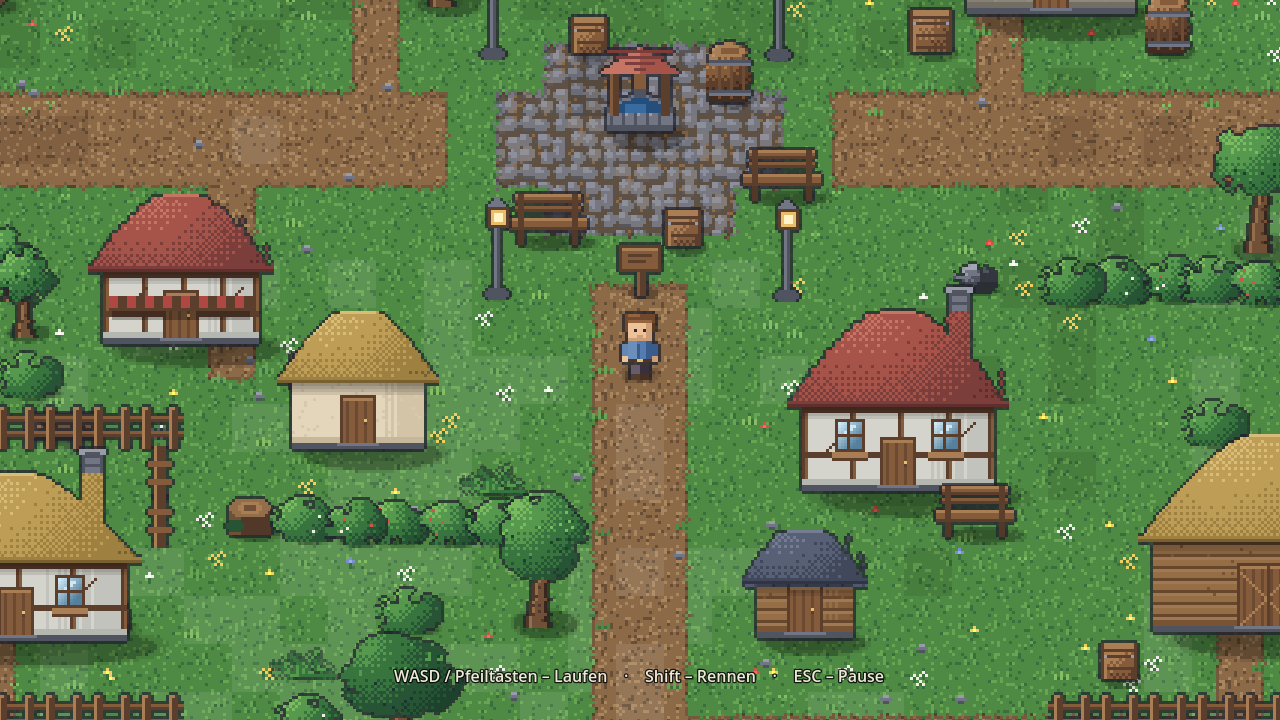
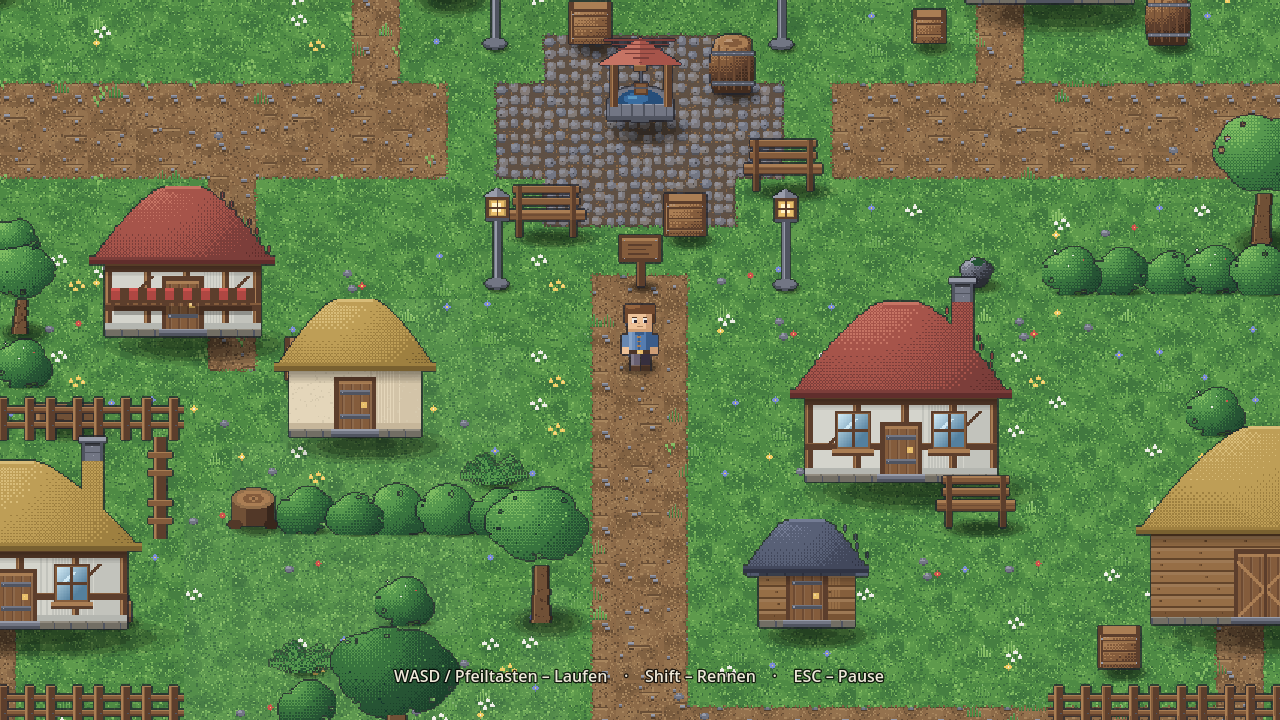
Feinschliff, Credits und Vorher/Nachher-Vergleich
- Farne waren bei 32 Pixeln praktisch unsichtbar: Wedel mit zweifarbigem
  Mittelstiel und paarweisen Fiederblaettchen
- Fichten wirkten als schmale Dreiecke: breitere Etagen mit zweiter,
  versetzter Lage
- Birke: Krone tiefer angesetzt, damit weniger heller Stamm frei steht
- Bodenschatten kraeftiger, die Objekte standen zu sehr ueber dem Boden

CREDITS.md (Auftrag §19/§20): Das Projekt enthaelt keine fremden
Asset-Dateien. Alle Grafiken und Klaenge werden zur Laufzeit berechnet.
Godot selbst (MIT) und die von der Engine gestellte Schrift sind als
einzige fremde Bestandteile dokumentiert. Die Vorbilder aus dem Auftrag
sind als reine Gestaltungsorientierung benannt, ohne uebernommene Inhalte.

Diese Aussage ist nicht nur behauptet: Der Selbsttest durchsucht res://
nach Bild-, Ton- und Schriftdateien und schlaegt fehl, sobald eine
auftaucht. 36 Pruefungen gruen.

README: eindeutige Startanleitung (Auftrag §24) und Vorher/Nachher-Tabelle
mit den Bildschirmfotos beider Aufloesungsstufen (Auftrag §22).

Claude-Session: https://claude.ai/code/session_01HgYAB6E32DDv1UqE7nxM7u

diff --git a/README.md b/README.md
@@ -5,11 +5,25 @@ Du läufst als Wanderer durch eine überschaubare Insel: Dorf, Wiese, Wald, Fels
 
 ![Das Dorf](docs/bilder/dorf.png)
 
-## Starten
+## So wird das Spiel gestartet
 
-1. [Godot 4.3+](https://godotengine.org/download) herunterladen (keine Installation nötig)
-2. Godot öffnen → **Importieren** → diesen Ordner (`project.godot`) auswählen
+1. [Godot 4.3+](https://godotengine.org/download) herunterladen — eine einzelne
+   ausführbare Datei, keine Installation nötig
+2. Godot öffnen → **Importieren** → diesen Ordner wählen (die Datei `project.godot`)
 3. **F5** drücken
+
+Es startet die Szene `scenes/main.tscn`. Danach erscheint das Hauptmenü,
+**SPIELEN** lädt die Welt (rund 1,5 Sekunden), und die Figur steht am Dorfplatz.
+
+Ohne Editor, direkt von der Kommandozeile:
+
+```bash
+godot --path .          # Spiel starten
+```
+
+Alle Grafiken und Klänge entstehen beim Start im Spiel selbst — es müssen
+keine Assets heruntergeladen oder importiert werden. Die Lizenzlage ist in
+[`CREDITS.md`](CREDITS.md) dokumentiert.
 
 ## Steuerung
 
@@ -36,6 +50,11 @@ Laternen, Holzstapel, Blumenkästen, Fässer, Kisten, Zäune und Vorgärten.
 Jungbaum, große und kleine Fichte) plus Büsche, Farne, Baumstümpfe und Totholz. Die Verteilung
 folgt Dichtefeldern statt gleichmäßigem Würfeln: es gibt Gruppen, dichte Bestände, Lichtungen und
 ausgedünnte Waldränder.
+
+**Auflösung** — 32 × 32 Pixel je Kachel bei Kamerazoom 1,5. Gegenüber der
+ersten Fassung (16 px bei Zoom 3) ist das Sichtfeld unverändert, jede Kachel
+hat aber die vierfache Pixelfläche. Alle Grafiken wurden dafür neu gezeichnet,
+nicht hochskaliert.
 
 **Boden** — Ein echtes Kachelraster aus neun `TileMapLayer`. Gras füllt die Karte, darüber liegen
 Wiese, Waldboden, Fels, Sand, Wasser, Tiefwasser, Weg und Pflaster. Die Schichten blenden sich per
@@ -96,7 +115,7 @@ src/gfx/actor_art.gd       Spielerfigur (Idle + Laufzyklus, 3 Richtungen)
 
 src/world/layout.gd        Von Hand gesetzte Weltstruktur (Dorf, Wege, Zäune, Hecken)
 src/world/map_data.gd      Kartendaten: Bodentypen, Inselform, Wegenetz, Begehbarkeit
-src/world/ground_tileset.gd TileSet mit benannten Terrains, bemalt die Kachelschichten
+src/world/ground_tileset.gd TileSet mit Terrains und Dekorationskacheln, bemalt die Schichten
 src/world/world_builder.gd Boden backen, Requisiten verteilen, Kollision bauen
 src/world/water_fx.gd      Glitzern und Uferschaum (nur im Sichtbereich)
 src/world/world.gd         Setzt die Spielwelt zusammen
@@ -129,8 +148,10 @@ godot --headless --path . --import      # nur beim allerersten Mal nötig
 godot --headless --path . -- --selftest
 ```
 
-Der Exit-Code ist 0, wenn alles in Ordnung ist (aktuell 35 Prüfungen; Weltaufbau ~790 ms,
-616 Objekte, 572 Kollisionsformen, 38 Zeichenaufrufe). Mit einer echten Anzeige
+Der Exit-Code ist 0, wenn alles in Ordnung ist (aktuell 36 Prüfungen; Weltaufbau ~1,5 s,
+616 Objekte, 572 Kollisionsformen, 45 Zeichenaufrufe). Eine der Prüfungen durchsucht das
+Projekt nach fremden Asset-Dateien und schlägt fehl, sobald eine auftaucht — siehe
+[`CREDITS.md`](CREDITS.md). Mit einer echten Anzeige
 lassen sich zusätzlich Screenshots und ein Kontaktbogen aller erzeugten Grafiken ablegen:
 
 ```bash
@@ -138,6 +159,16 @@ godot --path . -- --selftest --shots=/tmp/shots
 ```
 
 ![Alle Requisiten](docs/bilder/requisiten.png)
+
+## Vorher / Nachher
+
+Links das 16-px-Raster der ersten Fassung, rechts das heutige 32-px-Raster.
+
+| vorher | nachher |
+|---|---|
+| ![Dorf vorher](docs/bilder/vorher_dorf.png) | ![Dorf nachher](docs/bilder/dorf.png) |
+| ![Wald vorher](docs/bilder/vorher_wald.png) | ![Wald nachher](docs/bilder/wald.png) |
+| ![Strand vorher](docs/bilder/vorher_strand.png) | ![Strand nachher](docs/bilder/strand.png) |
 
 ## Nächste Schritte
 

diff --git a/CREDITS.md b/CREDITS.md
@@ -1,0 +1,60 @@
+# Credits und Nutzungsrechte
+
+**Kurzfassung: Dieses Projekt enthält keine fremden Asset-Dateien.**
+Sämtliche Grafiken und Klänge werden zur Laufzeit im Spiel selbst berechnet.
+Es gibt im Repository keine `.png`, `.wav`, `.ogg` oder `.ttf` als Spielinhalt.
+
+## Grafik
+
+| Was | Herkunft | Autor | Lizenz |
+|---|---|---|---|
+| Bodenkacheln, Übergangskacheln, Dekoration | in diesem Projekt erzeugt (`src/gfx/tile_art.gd`, `src/gfx/terrain_atlas.gd`) | Projekt | frei verwendbar |
+| Bäume, Felsen, Gebäude, Dorfinventar | in diesem Projekt erzeugt (`src/gfx/prop_art.gd`) | Projekt | frei verwendbar |
+| Spielerfigur und Animationen | in diesem Projekt erzeugt (`src/gfx/actor_art.gd`) | Projekt | frei verwendbar |
+| Menü-Hintergrund, Rahmen, Wolken | in diesem Projekt erzeugt (`src/ui/menu_art.gd`) | Projekt | frei verwendbar |
+
+Jede dieser Grafiken entsteht aus Rechteck-, Ellipsen- und Dreiecksoperationen in
+`src/gfx/pixel.gd` und aus der Farbpalette in `src/core/palette.gd`. Es wurde
+nichts kopiert, nachgezeichnet oder aus fremden Bilddateien abgeleitet.
+
+## Audio
+
+| Was | Herkunft | Autor | Lizenz |
+|---|---|---|---|
+| Menü- und Weltmusik | in diesem Projekt berechnet (`src/audio/audio.gd`) | Projekt | frei verwendbar |
+| Schritte, Menüklänge | in diesem Projekt berechnet (`src/audio/audio.gd`) | Projekt | frei verwendbar |
+
+Die Klänge werden als Sinus-, Rechteck- und Rauschsignale in eine
+`AudioStreamWAV` geschrieben. Es wurden keine Aufnahmen und keine Samples
+verwendet.
+
+## Fremde Bestandteile
+
+| Was | Autor | Lizenz | Anmerkung |
+|---|---|---|---|
+| Godot Engine 4.3 | Godot Engine contributors | MIT | Laufzeitumgebung, nicht Teil dieses Repositories |
+| Standardschriftart der Oberfläche | Teil der Godot-Distribution | siehe Godot-Lizenzdatei | wird von der Engine gestellt, nicht von diesem Projekt mitgeliefert |
+
+Das Projekt liefert keine eigene Schriftdatei aus. Die Menütexte werden mit der
+Schrift gezeichnet, die Godot selbst mitbringt.
+
+## Vorbilder
+
+Als gestalterische Orientierung dienten Top-Down-Spiele wie Stardew Valley,
+Moonlighter, Kynseed und A Short Hike. **Aus keinem dieser Spiele wurden
+Grafiken, Farbwerte, Sprites oder sonstige Inhalte übernommen.** Die
+Orientierung betrifft ausschließlich allgemeine Gestaltungsprinzipien —
+Perspektive, Detailgrad, Lichtführung — die selbst nicht schutzfähig sind.
+
+## Prüfung
+
+Der Selbsttest meldet die Zahl der Asset-Dateien im Projekt. Wer es von Hand
+prüfen möchte:
+
+```bash
+find . -path ./.godot -prune -o \( -name '*.png' -o -name '*.wav' -o -name '*.ogg' \
+  -o -name '*.ttf' -o -name '*.jpg' \) -print
+```
+
+Treffer gibt es nur unter `docs/bilder/` — das sind Bildschirmfotos des Spiels
+für die Dokumentation, keine Spielinhalte.
